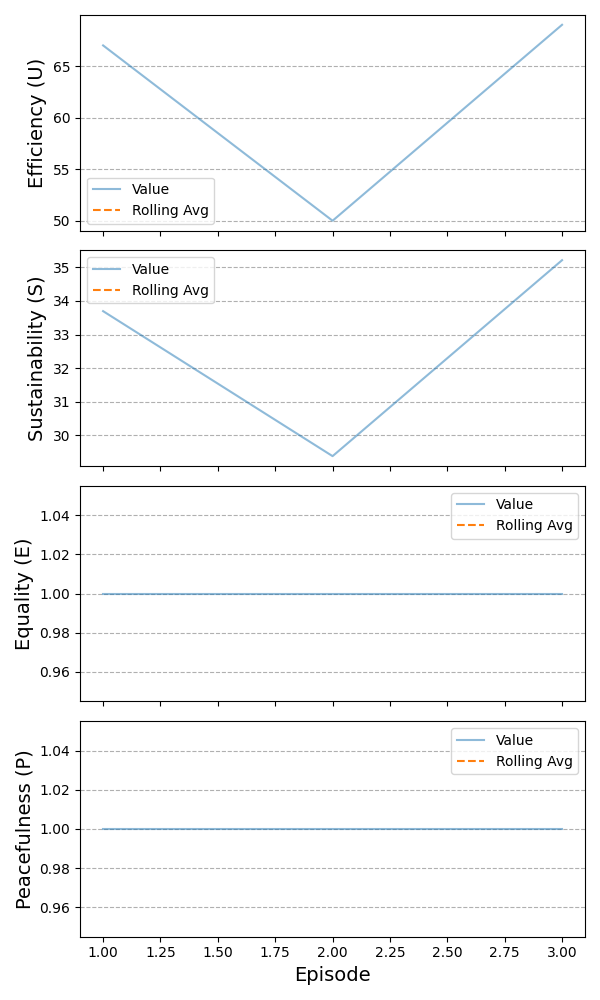
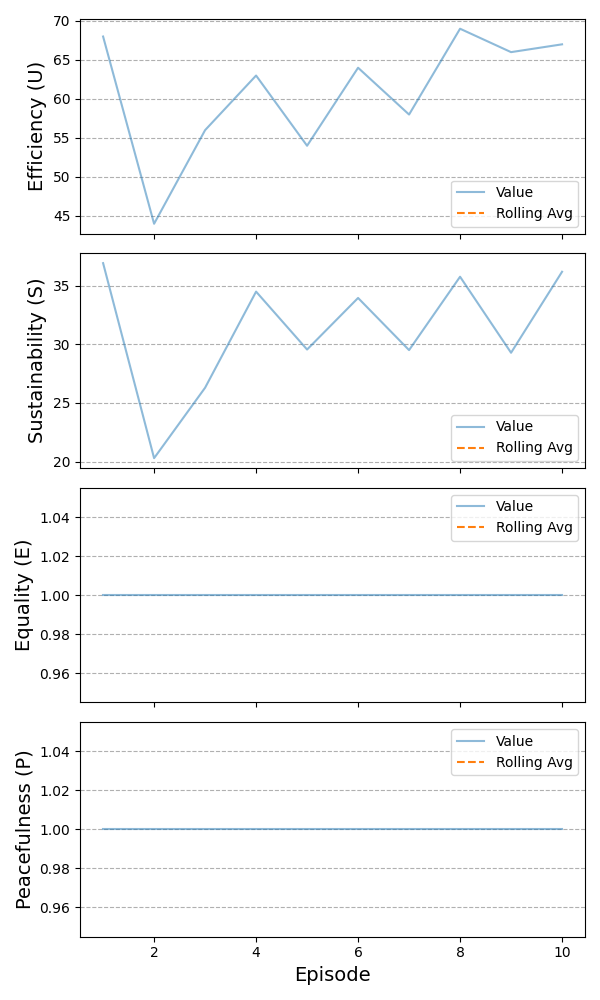
save episodes

diff --git a/DQN/test_model.py b/DQN/test_model.py
@@ -1,10 +1,15 @@
 import gym
 import numpy as np
 import random
+import threading
+import matplotlib
+from matplotlib import animation
 from DQN.agent import Agent
 from DQN.replay_buffer import ReplayBuffer as ReplayBuffer
 from CommonsGame.resources import *
 from DQN.metrics import *
+
+matplotlib.use('Agg')
 
 class TestModel():
     
@@ -102,6 +107,21 @@ class TestModel():
                 observations[i] = np.copy(agent.replay_buffer.buffer[-1][0])
             agent.store_transition(observations[i], actions[i], rewards[i], observations_[i], done[i])
 
+    def store_episode(self, episode, steps):
+        filename = FILE_PATHS[self.map] + f"episode_{episode}.gif"
+        
+        fig = plt.figure(8, figsize=(steps[0].shape[1] / 64, steps[0].shape[0] / 64), dpi=512)
+        fig.suptitle('tick: 0', fontsize=3, fontweight='bold', fontfamily='monospace')
+        patch = plt.imshow(steps[0])
+        plt.axis('off')
+
+        def animate(i):
+            patch.set_data(steps[i])
+            fig.suptitle(f'step: {i}', fontsize=3, fontweight='bold')
+
+        gif = animation.FuncAnimation(fig, animate, frames = len(steps), interval=50)
+        gif.save(filename, writer='imagemagick', fps=60)
+
     def run_episode(self, episode, scores, eps_history, loss_history, metrics_values):
         metrics = Metrics(self.num_agents)
         score = 0
@@ -109,6 +129,7 @@ class TestModel():
         observations = self.env.reset()
         losses = []
         step = 0
+        steps = []
         while not done[0] and step < 1000:
             actions = self.choose_actions(observations) 
             
@@ -120,6 +141,7 @@ class TestModel():
 
             observations = new_observations
             step += 1
+            steps.append(self.env.render("rgb_array"))
             
         for agent in self.agents:
             agent.decay_epsilon()
@@ -132,6 +154,10 @@ class TestModel():
         loss_history.append(np.array(losses).mean())
 
         avg_score = np.mean(scores[-100:])
+
+        if episode in [1,2 , 3]:
+            thread = threading.Thread(target=self.store_episode, args=(episode, steps))
+            thread.start()
 
         print('Episode {} Score: {:.2f} Average Score: {:.2f} Epsilon {:.2f}'.format(episode, scores[-1], avg_score, self.agents[0].epsilon))
         

diff --git a/main.py b/main.py
@@ -3,7 +3,7 @@ from DQN import *
 
 def main():    
     # Original maps
-    original_small_map = TestModel(num_episodes=3, map=SmallMap, visual_radius=5, warmup_steps=1000)
+    original_small_map = TestModel(num_episodes=10, map=SmallMap, visual_radius=5, warmup_steps=20)
     original_small_map.execute()
     
     # original_open_map = TestModel(num_episodes=15, map=OpenMap, visual_radius=5, warmup_steps=1000)
